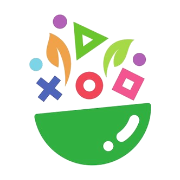
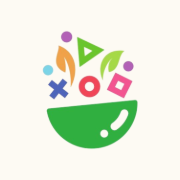
v3

Changed region(s): [[0.1389, 0.0833, 0.8611, 0.9444]]

diff --git a/screenshots/App Icon Preview.html b/screenshots/App Icon Preview.html
@@ -1,0 +1,32 @@
+<!DOCTYPE html>
+<html>
+<head>
+<meta charset="utf-8">
+<title>App Icon Preview</title>
+<style>
+  body { margin: 0; min-height: 100vh; display: flex; align-items: center; justify-content: center; background: linear-gradient(160deg, #3c4a5c, #1e2733); font-family: -apple-system, Helvetica, sans-serif; }
+  .wrap { text-align: center; }
+  h2 { color: #e8ecf2; font-weight: 600; margin: 0 0 28px; font-size: 18px; }
+  .dock { display: flex; gap: 14px; align-items: flex-end; padding: 12px 22px; background: rgba(255,255,255,0.18); backdrop-filter: blur(20px); border: 1px solid rgba(255,255,255,0.25); border-radius: 26px; }
+  .app { width: 76px; height: 76px; border-radius: 18px; box-shadow: 0 6px 14px rgba(0,0,0,0.35); }
+  .fake1 { background: linear-gradient(135deg, #4a90d9, #2b5fa8); }
+  .fake2 { background: linear-gradient(135deg, #e8e8e8, #c9c9c9); }
+  .fake3 { background: linear-gradient(135deg, #8e64d8, #5c3aa8); }
+  .noor { background: #fdfaf3 url('../assets/favicon-512.png') center / cover no-repeat; }
+  .label { color: #cfd6df; font-size: 13px; margin-top: 18px; }
+  a { color: #cfd6df; } a:hover { color: #ffffff; }
+</style>
+</head>
+<body>
+<div class="wrap">
+  <h2>New app icon — logo scaled down with breathing room</h2>
+  <div class="dock">
+    <div class="app fake1"></div>
+    <div class="app fake2"></div>
+    <div class="app noor"></div>
+    <div class="app fake3"></div>
+  </div>
+  <div class="label">Noor Therapy in the macOS Dock</div>
+</div>
+</body>
+</html>